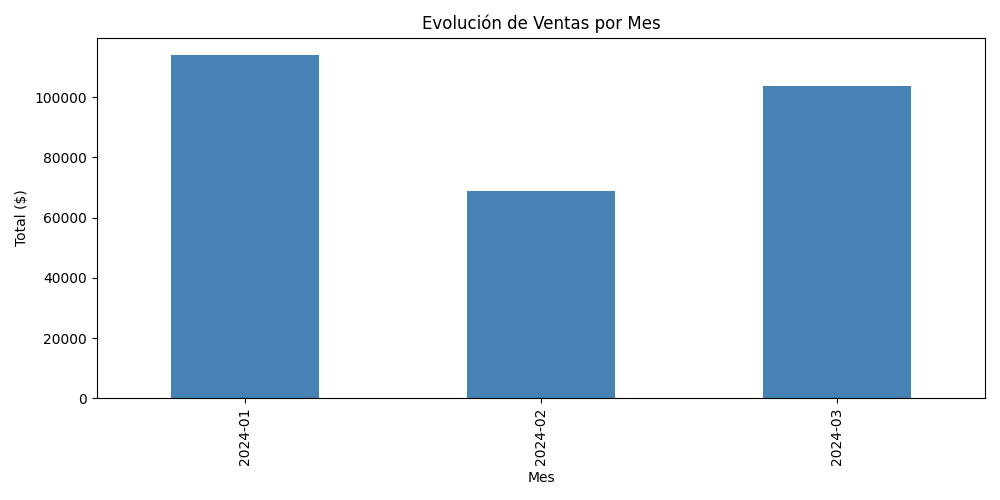
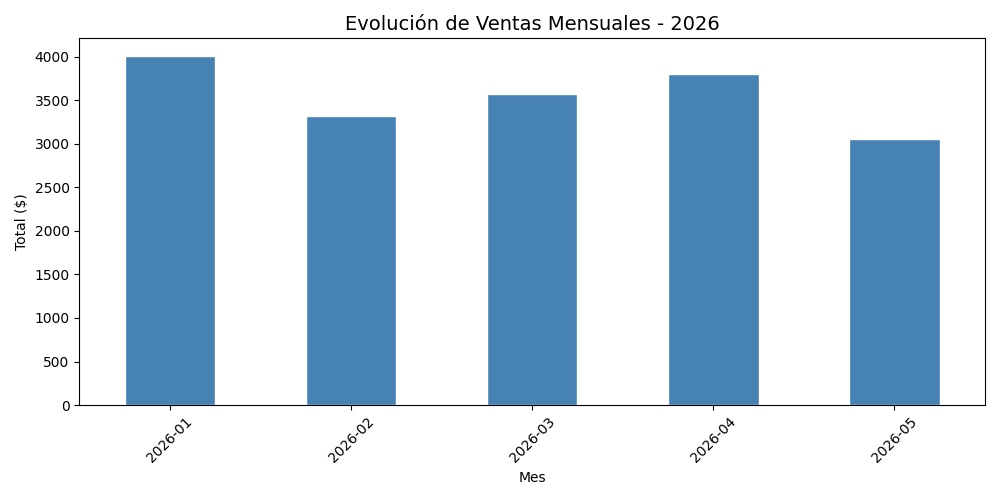
PROY-4: Reemplazar dataset simulado por dataset real y actualizar script de analisis

diff --git a/scripts/analisis_ventas.py b/scripts/analisis_ventas.py
@@ -1,34 +1,130 @@
 
 # scripts/analisis_ventas.py
 # Autor: Paco (P2) - Desarrollador Técnico
-# Descripción: Analiza ventas simuladas y genera indicadores clave
+# Descripción: Análisis de ventas reales de una pequeña empresa
+# Dataset: ventas.csv - 150 registros, enero a mayo 2026
 
 import pandas as pd
 import matplotlib.pyplot as plt
+import os
 
-# Cargamos el dataset desde la carpeta /datos
-df = pd.read_csv("datos/ventas.csv", parse_dates=["fecha"])
+# Creamos la carpeta de resultados si no existe
+os.makedirs("resultados", exist_ok=True)
 
-# --- INDICADORES ---
-# Total de ventas en el período
-total_ventas = df["total"].sum()
-print(f"Ventas totales: ${total_ventas:,.2f}")
+# ---------------------------------------------
+# CARGA DE DATOS
+# Usamos ruta relativa para garantizar
+# reproducibilidad en cualquier entorno
+# ---------------------------------------------
+df = pd.read_csv("datos/ventas.csv", parse_dates=["Fecha"])
 
-# Producto más vendido por cantidad
-mas_vendido = df.groupby("producto")["cantidad"].sum().idxmax()
-print(f"Producto más vendido: {mas_vendido}")
+# ---------------------------------------------
+# INDICADOR 1: Ventas totales del período
+# Suma del campo Total para tener el ingreso
+# acumulado en todo el período analizado
+# ---------------------------------------------
+total_ventas = df["Total"].sum()
+print(f"Ventas totales del período: ${total_ventas:,.2f}")
 
-# Ventas por mes (agrupamos por mes para ver tendencia temporal)
-df["mes"] = df["fecha"].dt.to_period("M")
-ventas_mes = df.groupby("mes")["total"].sum()
-print(ventas_mes)
+# ---------------------------------------------
+# INDICADOR 2: Producto más vendido
+# Agrupamos por Producto y sumamos Cantidad
+# para identificar el de mayor volumen
+# ---------------------------------------------
+ventas_por_producto = df.groupby("Producto")["Cantidad"].sum().sort_values(ascending=False)
+mas_vendido = ventas_por_producto.idxmax()
+print(f"Producto más vendido: {mas_vendido} ({ventas_por_producto[mas_vendido]} unidades)")
 
-# --- GRÁFICO ---
+# ---------------------------------------------
+# INDICADOR 3: Ventas totales por mes
+# Extraemos el período mensual de la fecha
+# para analizar la tendencia temporal
+# ---------------------------------------------
+df["Mes"] = df["Fecha"].dt.to_period("M")
+ventas_por_mes = df.groupby("Mes")["Total"].sum()
+print("Ventas por mes:")
+print(ventas_por_mes)
+
+# ---------------------------------------------
+# INDICADOR 4: Ventas por categoría
+# Permite identificar qué rubro genera
+# más ingresos en el período
+# ---------------------------------------------
+ventas_por_categoria = df.groupby("Categoria")["Total"].sum().sort_values(ascending=False)
+print("Ventas por categoría:")
+print(ventas_por_categoria)
+
+# ---------------------------------------------
+# INDICADOR 5: Ventas por región
+# Útil para detectar zonas de mayor demanda
+# ---------------------------------------------
+ventas_por_region = df.groupby("Region")["Total"].sum().sort_values(ascending=False)
+print("Ventas por región:")
+print(ventas_por_region)
+
+# ---------------------------------------------
+# GRÁFICO 1: Evolución de ventas por mes
+# Gráfico de barras para visualizar tendencia
+# temporal de los ingresos totales
+# ---------------------------------------------
 fig, ax = plt.subplots(figsize=(10, 5))
-ventas_mes.plot(kind="bar", ax=ax, color="steelblue")
-ax.set_title("Evolución de Ventas por Mes")
+ventas_por_mes.plot(kind="bar", ax=ax, color="steelblue", edgecolor="white")
+ax.set_title("Evolución de Ventas Mensuales - 2026", fontsize=14)
 ax.set_xlabel("Mes")
 ax.set_ylabel("Total ($)")
+ax.tick_params(axis="x", rotation=45)
 plt.tight_layout()
 plt.savefig("resultados/ventas_por_mes.png")
-print("Gráfico guardado en resultados/")
+plt.close()
+print("Gráfico 1 guardado: resultados/ventas_por_mes.png")
+
+# ---------------------------------------------
+# GRÁFICO 2: Ventas por categoría
+# Gráfico de torta para visualizar la
+# participación de cada rubro en el total
+# ---------------------------------------------
+fig, ax = plt.subplots(figsize=(7, 7))
+ventas_por_categoria.plot(kind="pie", ax=ax, autopct="%1.1f%%", startangle=90)
+ax.set_title("Participación por Categoría en Ventas Totales", fontsize=14)
+ax.set_ylabel("")
+plt.tight_layout()
+plt.savefig("resultados/ventas_por_categoria.png")
+plt.close()
+print("Gráfico 2 guardado: resultados/ventas_por_categoria.png")
+
+# ---------------------------------------------
+# GRÁFICO 3: Ventas por región
+# Comparativo de rendimiento entre regiones
+# ---------------------------------------------
+fig, ax = plt.subplots(figsize=(8, 5))
+ventas_por_region.plot(kind="bar", ax=ax, color=["#2ecc71","#3498db","#e74c3c"], edgecolor="white")
+ax.set_title("Ventas Totales por Región - 2026", fontsize=14)
+ax.set_xlabel("Región")
+ax.set_ylabel("Total ($)")
+ax.tick_params(axis="x", rotation=0)
+plt.tight_layout()
+plt.savefig("resultados/ventas_por_region.png")
+plt.close()
+print("Gráfico 3 guardado: resultados/ventas_por_region.png")
+
+# ---------------------------------------------
+# EXPORTAR RESUMEN
+# Guardamos un CSV con los indicadores
+# principales para referencia futura
+# ---------------------------------------------
+resumen = pd.DataFrame({
+    "Indicador": [
+        "Ventas totales del período",
+        "Producto más vendido",
+        "Categoría líder",
+        "Región líder"
+    ],
+    "Valor": [
+        f"${total_ventas:,.2f}",
+        mas_vendido,
+        ventas_por_categoria.idxmax(),
+        ventas_por_region.idxmax()
+    ]
+})
+resumen.to_csv("resultados/resumen_indicadores.csv", index=False)
+print("Resumen exportado: resultados/resumen_indicadores.csv")